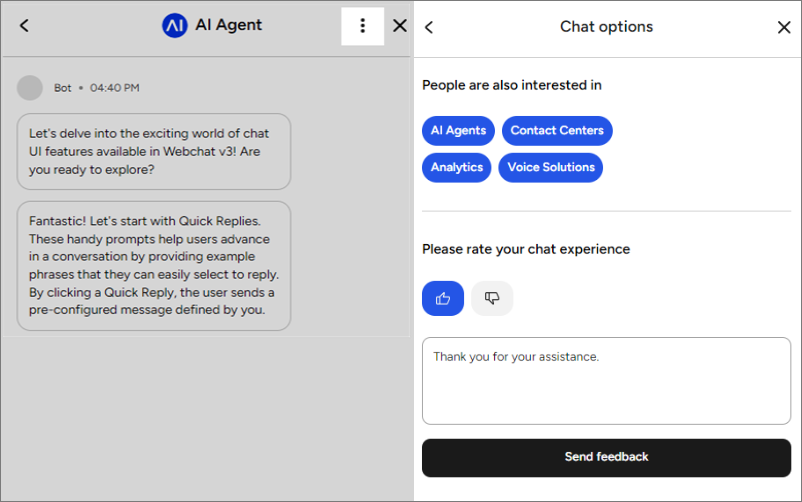
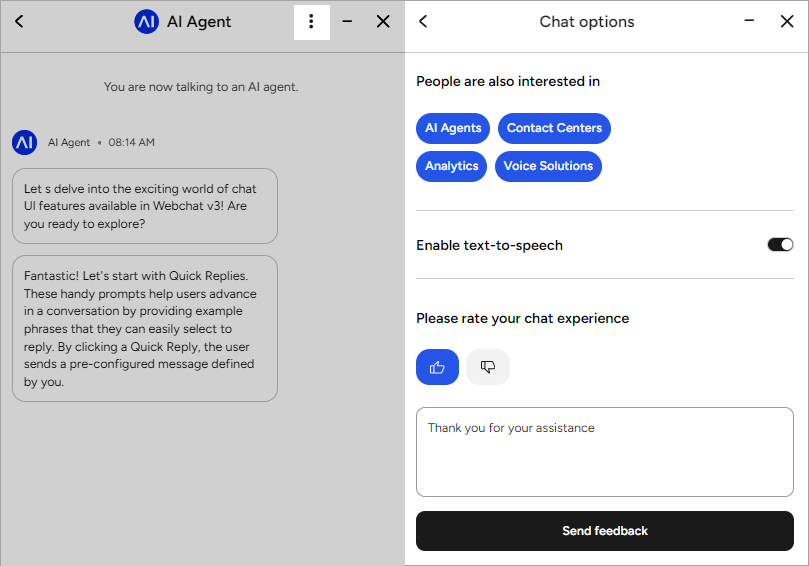
more improvements

diff --git a/docs/webchat/v3/configuration.md b/docs/webchat/v3/configuration.md
@@ -100,15 +100,15 @@ The Advanced Layout settings offer parameters for managing the chat interface, f
 
 The Webchat Behavior settings enhance communication by enabling typing indicators, customizing input text, enabling Speech-To-Text, Text-To-Speech features, adjusting message delay, ensuring focus after interaction, and alerting users to internet connection status.
 
-| Parameter                          | Description                                                                                                                                                                                                                                                                                                                                                                                     |
-|------------------------------------|-------------------------------------------------------------------------------------------------------------------------------------------------------------------------------------------------------------------------------------------------------------------------------------------------------------------------------------------------------------------------------------------------|
-| Enable Typing Indicators           | This parameter shows when the virtual agent is typing a response, helping users understand when to expect replies. When the parameter is turned on, a typing symbol appears, signaling that the virtual agent is processing your request and will respond soon.                                                                                                                                 |
-| Input Placeholder Text             | This parameter enables you to customize the placeholder text in the Reply field, indicating where users can type their messages to interact with the virtual agent. By default, it is set to `Type something…`                                                                                                                                                                                  |
-| Enable speech-to-text              | This parameter adds a microphone button to the Webchat interface. Users can convert speech into written text, providing a hands-free and easy way to communicate with the virtual agent. This feature is particularly beneficial for users who prefer speaking or may have difficulty typing their responses.<br><br> Note that this parameter is not supported by the Mozilla Firefox browser. |
-| Enable text-to-speech              | This parameter adds a Text-To-Speech (TTS) feature that converts text messages into spoken voice output. This feature is particularly useful for users who prefer or require auditory feedback. Configurations for this TTS feature can be further adjusted in the Chat Options section.                                                                                                        |
-| Message Delay                      | This parameter defines the duration Webchat waits before sending the virtual agent's response to your messages. By default, it's set to 500 milliseconds, promoting a more natural conversational flow and mitigating the impression of an immediate automated response.                                                                                                                        |
-| Focus Input after Postback         | This parameter ensures that after a Postback button or quick reply button is clicked, Webchat immediately redirects focus back to the Reply field.                                                                                                                                                                                                                                              |
-| Enable Connection Status Indicator | This parameter displays a warning message if the user's internet connection is lost during a conversation with the virtual agent. This ensures users are aware of any potential interruptions or delays in the chat conversation. The warning automatically disappears once the internet connection is re-established, indicating that the chat can proceed normally.                           |
+| Parameter                          | Description                                                                                                                                                                                                                                                                                                                                                                                                                                                                                                                                                                                                                                                                                               |
+|------------------------------------|-----------------------------------------------------------------------------------------------------------------------------------------------------------------------------------------------------------------------------------------------------------------------------------------------------------------------------------------------------------------------------------------------------------------------------------------------------------------------------------------------------------------------------------------------------------------------------------------------------------------------------------------------------------------------------------------------------------|
+| Enable Typing Indicators           | This parameter shows when the virtual agent is typing a response, helping users understand when to expect replies. When the parameter is turned on, a typing symbol appears, signaling that the virtual agent is processing your request and will respond soon.                                                                                                                                                                                                                                                                                                                                                                                                                                           |
+| Input Placeholder Text             | This parameter enables you to customize the placeholder text in the Reply field, indicating where users can type their messages to interact with the virtual agent. By default, it is set to `Type something…`                                                                                                                                                                                                                                                                                                                                                                                                                                                                                            |
+| Enable speech-to-text              | This parameter adds a microphone button to the Webchat interface. Users can convert speech into written text, providing a hands-free and easy way to communicate with the virtual agent. This feature is particularly beneficial for users who prefer speaking or may have difficulty typing their responses.<br><br> Note that this parameter is not supported by the Mozilla Firefox browser.                                                                                                                                                                                                                                                                                                           |
+| Enable text-to-speech              | This parameter adds a Text-To-Speech (TTS) feature that converts text messages into spoken voice output. This feature is especially beneficial for users who prefer or require auditory feedback. As an alternative to this parameter, for more customization and a personalized user experience, go to the [Text-To-Speech](#text-to-speech) section in the Chat Options section.<br><br>By default, the parameter is inactive. If you turn it on and also adjust [Text-To-Speech](#text-to-speech) in the Chat Options, the Chat Options settings will override this parameter. Note that the text-to-speech feature uses the Browser API, so the available voices depend on the OS and browser vendor. |
+| Message Delay                      | This parameter defines the duration Webchat waits before sending the virtual agent's response to your messages. By default, it's set to 500 milliseconds, promoting a more natural conversational flow and mitigating the impression of an immediate automated response.                                                                                                                                                                                                                                                                                                                                                                                                                                  |
+| Focus Input after Postback         | This parameter ensures that after a Postback button or quick reply button is clicked, Webchat immediately redirects focus back to the Reply field.                                                                                                                                                                                                                                                                                                                                                                                                                                                                                                                                                        |
+| Enable Connection Status Indicator | This parameter displays a warning message if the user's internet connection is lost during a conversation with the virtual agent. This ensures users are aware of any potential interruptions or delays in the chat conversation. The warning automatically disappears once the internet connection is re-established, indicating that the chat can proceed normally.                                                                                                                                                                                                                                                                                                                                     |
 
 #### Start Behavior
 
@@ -244,11 +244,14 @@ The Quick Replies settings improve chat interactions with pre-defined response o
 
 #### Text-to-Speech
 
-| Parameter                      | Description                                                                                                                                                                                                                                                                                                                                                                     |
-|--------------------------------|---------------------------------------------------------------------------------------------------------------------------------------------------------------------------------------------------------------------------------------------------------------------------------------------------------------------------------------------------------------------------------|
-| Show text-to-speech toggle     | This parameter lets you activate the text-to-speech feature, enabling AI Agent to speak its messages aloud. By default, this parameter is inactive. By enabling this parameter, you give users the option to choose whether to activate text-to-speech. Note that the text-to-speech feature uses the Browser API, so the available voices depend on the OS and browser vendor. |
-| TTS toggle label               | This parameter appears if the **Show text-to-speech** toggle is activated. The parameter enables you to customize the label of the toggle switch that controls the Text-to-Speech feature. By default, the label is set to **Enable text-to-speech**.                                                                                                                           |
-| Activate TTS toggle by default | This parameter appears if the **Show text-to-speech** toggle is activated. The parameter lets you make the setting active by default, but end users can still turn it off.                                                                                                                                                                                                      |
+The Text-to-Speech settings allow you to convert text into spoken voice, with options to customize the toggle label and set the toggle to be enabled by default.
+
+| Parameter                      | Description                                                                                                                                                                                                                                                                                                                                                                                                                                                                             |
+|--------------------------------|-----------------------------------------------------------------------------------------------------------------------------------------------------------------------------------------------------------------------------------------------------------------------------------------------------------------------------------------------------------------------------------------------------------------------------------------------------------------------------------------|
+| Show text-to-speech toggle     | This parameter lets you activate the text-to-speech feature that converts text messages into spoken voice output. This feature is especially beneficial for users who prefer or require auditory feedback. <br><br> By default, this parameter is inactive. By enabling this parameter, you give users the option to choose whether to activate text-to-speech. Note that the text-to-speech feature uses the Browser API, so the available voices depend on the OS and browser vendor. |
+| TTS toggle label               | This parameter appears if the **Show text-to-speech toggle**  is activated. The parameter enables you to customize the label of the toggle switch that controls the Text-to-Speech feature. By default, the label is set to **Enable text-to-speech**.                                                                                                                                                                                                                                  |
+| Activate TTS toggle by default | This parameter appears if the **Show text-to-speech toggle** is activated. The parameter lets you make the setting active by default, but end users can still turn it off.                                                                                                                                                                                                                                                                                                              |
+
 
 #### Conversation Rating
 

diff --git a/docs/webchat/v3/features.md b/docs/webchat/v3/features.md
@@ -7,7 +7,7 @@ hidden: false
 
 # Webchat 3: Key Features
 
-[![Version badge](https://img.shields.io/badge/Updated in-v4.78(beta)-purple.svg)](../../release-notes/4.78.md)
+[![Version badge](https://img.shields.io/badge/Updated in-v4.81(beta)-purple.svg)](../../release-notes/4.81.md)
 
 {! _includes/webchat/beta.md !}
 
@@ -75,7 +75,10 @@ To configure the teaser message, refer to the [Teaser Message](configuration.md#
 
 ## Chat Options
 
-Enabling Chat Options unlocks additional interactive capabilities within the chat interface, such as Quick Replies for streamlined responses, Conversation Rating for user feedback, and a customizable Footer for further information. This collective enhancement of features under the Chat Options settings enriches the engagement by offering users more ways to interact and provide feedback, ultimately elevating the overall chat experience.
+Enabling Chat Options unlocks additional interactive capabilities within the chat interface,
+such as Quick Replies for streamlined responses, Conversation Rating for user feedback, text-to-speech options, and a customizable Footer for further information.
+This collective enhancement of features under the Chat Options settings enriches the engagement
+by offering users more ways to interact and give feedback, elevating the overall chat experience.
 
 <figure>
   <img class="image-center" src="../../../_assets/webchat/v3/chat-options.png" width="100%" />
@@ -89,9 +92,17 @@ The Quick Replies feature at the top of the Chat Option screen simplifies intera
 
 To configure the quick replies, refer to the [Quick Replies](configuration.md#quick-replies) settings.
 
+### Text-to-Speech
+
+The Text-to-Speech feature on the Chat Options screen is helpful for users who prefer or require listening over reading. 
+The feature enables the chat AI Agent to speak messages aloud. 
+Users can choose whether to use this option, allowing them to tailor their chat experience to their preferences.
+
+To configure the text-to-speech feature, refer to the [Text-to-Speech](configuration.md#text-to-speech) settings.
+
 ### Conversation Rating
 
-The Conversation Rating feature in chat options allows users to rate and provide feedback on their chat experience, crucial for improving assistant performance. It offers customizable settings including the invitation to rate, placeholder for comments, submit button text, and a confirmation banner message. This streamlined feedback mechanism engages users directly, making it easier to gather and act on valuable user insights.
+The Conversation Rating feature on the Chat Options screen allows users to rate and give feedback on their chat experience, crucial for improving assistant performance. It offers customizable settings including the invitation to rate, placeholder for comments, submit button text, and a confirmation banner message. This streamlined feedback mechanism engages users directly, making it easier to gather and act on valuable user insights.
 
 To configure the conversation rating, refer to the [Conversation Rating](configuration.md#conversation-rating) settings.
 
